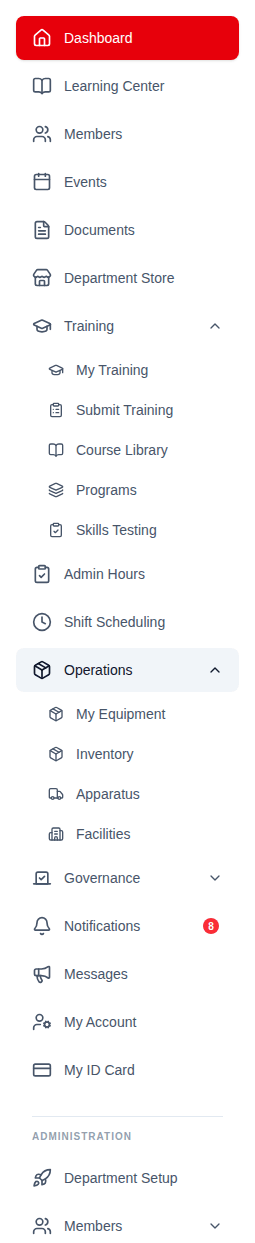
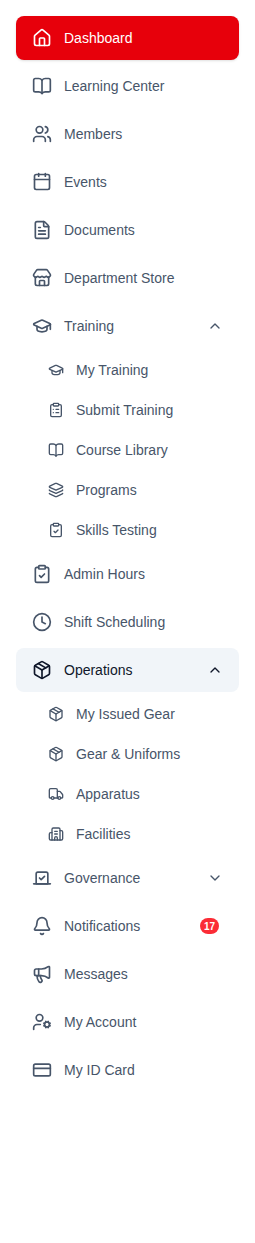
Count the placeholders the tooling could not see; fix the member sidebar shot
status_report.py and apply_placeholders.py shared a regex requiring
[SCREENSHOT NEEDED] with the bracket closing immediately after the word,
so the 41 placeholders written as [SCREENSHOT NEEDED - description] were
invisible to both: the tracker reported 0 remaining while forty-one
specified requests, several carrying seed instructions, had never been
counted. The bracket is now optional and unterminated; the count reads
432 captured, 40 remaining. Verified before changing it that all 436
shots carry an anchor and that a dry run replaces the identical set, so
the wider pattern cannot mis-fill.

00-15-sidebar-member had no auth key and so defaulted to admin - an
image captioned "the member-facing sections" showing ADMINISTRATION and
Department Setup. Re-shot as a member, which also exposed stale labels
in guide 00's tables (My Issued Gear / Gear & Uniforms, Gear Admin) and
Department Store listed as an Operations child. 00-16 re-shot too: it
still pictured the raw-UTC timeline fixed earlier this session.

Fills guide 01's third placeholder (01-39) with the elevated half of the
scanner-permission contrast, cross-referencing the member sidebar for
the other half, since two roles cannot be one picture and the harness
has no members.view-only identity.

Claude-Session: https://claude.ai/code/session_01Hx7mb6NpzahqrTMwHfHfjR

diff --git a/scripts/screenshots/status_report.py b/scripts/screenshots/status_report.py
@@ -19,8 +19,17 @@ from pathlib import Path
 DOCS_DIR = Path(__file__).resolve().parent.parent.parent / "docs" / "training"
 OUTPUT = DOCS_DIR / "SCREENSHOT_STATUS.md"
 
+# The bracket is optional and unterminated on purpose. Guides carry two
+# placeholder syntaxes: `> **[SCREENSHOT NEEDED]:** _description_`, and
+# `> **[SCREENSHOT NEEDED — description]**` with the description *inside* the
+# brackets. Requiring `\[SCREENSHOT NEEDED\]` matched only the first, so 41
+# placeholders across twelve guides were invisible to this script and to
+# status_report.py — which reported "0 remaining" while forty-one fully
+# specified requests, several carrying their own seed instructions, had never
+# been counted, let alone filled. Both scripts hold a copy of this pattern;
+# keep them in step.
 MARKER = re.compile(
-    r"^>\s*\*\*(?:Screenshot placeholder|Screenshot needed|\[SCREENSHOT NEEDED\])",
+    r"^>\s*\*\*\[?(?:Screenshot placeholder|Screenshot needed)",
     re.IGNORECASE,
 )
 IMAGE = re.compile(r"^!\[.*\]\(\./images/.*\.png\)$")

diff --git a/scripts/screenshots/apply_placeholders.py b/scripts/screenshots/apply_placeholders.py
@@ -36,8 +36,17 @@ REPO_ROOT = HERE.parent.parent
 DOCS_DIR = REPO_ROOT / "docs" / "training"
 REPORT = HERE / "capture-report.json"
 
+# The bracket is optional and unterminated on purpose. Guides carry two
+# placeholder syntaxes: `> **[SCREENSHOT NEEDED]:** _description_`, and
+# `> **[SCREENSHOT NEEDED — description]**` with the description *inside* the
+# brackets. Requiring `\[SCREENSHOT NEEDED\]` matched only the first, so 41
+# placeholders across twelve guides were invisible to this script and to
+# status_report.py — which reported "0 remaining" while forty-one fully
+# specified requests, several carrying their own seed instructions, had never
+# been counted, let alone filled. Both scripts hold a copy of this pattern;
+# keep them in step.
 MARKER = re.compile(
-    r"^>\s*\*\*(?:Screenshot placeholder|Screenshot needed|\[SCREENSHOT NEEDED\])",
+    r"^>\s*\*\*\[?(?:Screenshot placeholder|Screenshot needed)",
     re.IGNORECASE,
 )
 

diff --git a/docs/training/00-getting-started.md b/docs/training/00-getting-started.md
@@ -169,22 +169,22 @@ These links are available to all active members:
 Three of them are **groups** that expand when you click them, rather than links
 of their own — Training, Operations and Governance:
 
-| Menu Item            | Description                                                                                    |
-| -------------------- | ---------------------------------------------------------------------------------------------- |
-| **Dashboard**        | Your home page with quick stats and upcoming items                                             |
-| **Learning Center**  | Short task-based paths through the app — open a task, do it, tick it off                       |
-| **Members**          | Department roster and member profiles                                                          |
-| **Events**           | Upcoming and past department events                                                            |
-| **Documents**        | Shared files, SOPs, and policies                                                               |
-| **Training** ▾       | My Training, Submit Training, Course Library, Programs, Skills Testing                         |
-| **Admin Hours**      | Log administrative work hours (if module enabled)                                              |
-| **Shift Scheduling** | Duty roster, your shifts, and open shifts                                                      |
-| **Operations** ▾     | My Equipment, Inventory, Department Store, Apparatus, Facilities                               |
-| **Governance** ▾     | Elections, Minutes, Action Items                                                               |
-| **Notifications**    | Your inbox, with an unread count on the item itself                                            |
-| **Messages**         | Department messages and announcements                                                          |
-| **My Account**       | Your own settings — account, password, security, emergency contacts, appearance, notifications |
-| **My ID Card**       | Your digital member ID, with its QR code and barcode                                           |
+| Menu Item            | Description                                                                                     |
+| -------------------- | ----------------------------------------------------------------------------------------------- |
+| **Dashboard**        | Your home page with quick stats and upcoming items                                              |
+| **Learning Center**  | Short task-based paths through the app — open a task, do it, tick it off                        |
+| **Members**          | Department roster and member profiles                                                           |
+| **Events**           | Upcoming and past department events                                                             |
+| **Documents**        | Shared files, SOPs, and policies                                                                |
+| **Training** ▾       | My Training, Submit Training, Course Library, Programs, Skills Testing                          |
+| **Admin Hours**      | Log administrative work hours (if module enabled)                                               |
+| **Shift Scheduling** | Duty roster, your shifts, and open shifts                                                       |
+| **Operations** ▾     | My Issued Gear, Gear & Uniforms, Apparatus, Facilities (Department Store is its own item above) |
+| **Governance** ▾     | Elections, Minutes, Action Items                                                                |
+| **Notifications**    | Your inbox, with an unread count on the item itself                                             |
+| **Messages**         | Department messages and announcements                                                           |
+| **My Account**       | Your own settings — account, password, security, emergency contacts, appearance, notifications  |
+| **My ID Card**       | Your digital member ID, with its QR code and barcode                                            |
 
 Which of the grouped items appear depends on the modules your department has
 enabled: a department not running elections has no Elections link under
@@ -202,7 +202,7 @@ If you have administrative permissions (officers, IT Manager, etc.), you will se
 | **Members** ▾               | Prospective, Pipeline Settings, Member Management, Scan Member ID, Waivers, Medical Screening |
 | **Events Admin**            | Create events, view analytics                                                                 |
 | **Training Admin**          | Review submissions, manage requirements, compliance                                           |
-| **Inventory Admin**         | Manage items, view member equipment                                                           |
+| **Gear Admin**              | Manage gear and uniform items, view member issued equipment                                   |
 | **Store Admin**             | Storefront products, order windows, and fulfilment                                            |
 | **Admin Hours**             | Review and approve administrative hours                                                       |
 | **Forms & Comms** ▾         | Email Templates, Messages, Forms, Integrations                                                |

diff --git a/docs/training/SCREENSHOT_CURRENCY.md b/docs/training/SCREENSHOT_CURRENCY.md
@@ -183,6 +183,88 @@ earlier** and remain stale.
 
 ---
 
+## "0 remaining" was measuring the wrong thing — 41 placeholders the tooling could not see
+
+Guide 01's two named placeholders are filled and verified (see the entries
+below). Re-checking them turned up something larger: **`status_report.py` and
+`apply_placeholders.py` shared a regex that matched none of the guides' actual
+placeholders.**
+
+Both required `\[SCREENSHOT NEEDED\]` — the bracket closing immediately after
+the word. Guides carry two syntaxes:
+
+```
+> **[SCREENSHOT NEEDED]:** _description outside the brackets_
+> **[SCREENSHOT NEEDED — description inside the brackets]**
+```
+
+Only the first matched. The second form accounts for **41 placeholders across
+twelve guides** — twenty of them in `19-august-2026-release-changes.md`, four
+each in guides 04 and 06, three in guide 09 — and several carry their own seed
+instructions ("seed orders in at least three states", "seed one
+organization-owned template and no vote data"). They were never counted, never
+attempted, and reported as though they did not exist. The tracker has been
+saying "0 remaining" while forty-one specified requests sat unread; the same
+list appears in this file's own SCREENSHOT NEEDED sections, so the work was
+known and the tooling simply never saw it.
+
+The bracket is now optional and unterminated in both scripts, which report
+**432 captured, 40 remaining**. Two properties were checked before changing it:
+every one of the 436 manifest shots carries an `anchor` (so no shot can drift
+onto a bracketed placeholder on a stale line number alone), and a dry run
+before and after replaces the identical set — the wider pattern lets the
+counter see these placeholders without letting the applier fill any of them by
+accident.
+
+### 00-15-sidebar-member was the administrator's sidebar
+
+The shot had no `auth` key, so it defaulted to admin: an image captioned "the
+member-facing sections" showed the ADMINISTRATION heading and Department
+Setup. 00-16's comment beside it recorded the symptom without naming the
+cause — it said an element clip of the nav "would be the same picture as the
+member-section shot above", which was true because both were the same user.
+
+Re-shot as a member, and the real member sidebar differs in more than the
+missing admin half: **Operations reads My Issued Gear / Gear & Uniforms**,
+where the stale admin capture showed My Equipment / Inventory. Those are
+renames, not permissions — no gate distinguishes them — so guide 00's member
+table was documenting labels the product no longer uses, and listing
+Department Store as an Operations child when it is its own top-level item.
+Corrected, along with **Gear Admin** (was Inventory Admin) in the
+Administration table, which the re-shot 00-16 exposed.
+
+00-16 also still pictured the raw-UTC dashboard timeline
+(`2026-08-16T23:00:00+00:00`) fixed earlier in this session, so it was re-shot
+too — an image displaying a bug the shipped code no longer has.
+
+### 01-39-scan-member-id-nav — the third guide-01 placeholder, filled
+
+The one in the invisible syntax asked for "side-by-side navigation for a
+`members.view`-only role and a `users.view` role". Checked against
+`SideNavigation.tsx` first: the rule is real —
+`anyPermission: ['users.view', 'members.manage']` — but the link is called
+**Scan Member ID**, not "Scanner", and it lives under Members in the
+Administration section.
+
+Two roles cannot be one picture, and the harness authenticates as the
+administrator, the demo member, or nobody — a `members.view`-only role is none
+of those. Split the way `09-18` and `01-membership.md:1156` were: the elevated
+half is captured, and the member half is cross-referenced to 00-15, whose
+sidebar has no Administration section at all — which is _why_ the scanner
+cannot appear there. Seeding a fourth identity would picture the permission
+pair exactly and is left recorded rather than half-done.
+
+Three harness lessons paid for by this one shot, all now written beside it:
+
+- **`innerText` lies about case.** The heading is uppercased by CSS, so the
+  DOM text is "Administration" and an exact `"ADMINISTRATION"` match — which
+  is what a debug dump shows you — never fires.
+- **The Administration sub-items are not anchors.** A `getByRole("link")`
+  locator finds nothing with the group open and the words plainly on screen.
+- **The admin half of the nav is built after permissions resolve**, so for a
+  moment the only button named "Members" is the member-facing roster item, and
+  clicking that one expands nothing. The shot waits for the section first.
+
 ## The 2026-08-17 pass — guides 04, 09, 06 and 08, 103 changed images verified
 
 All four guides were re-captured against the rebuilt database and the merged

diff --git a/docs/training/SCREENSHOT_STATUS.md b/docs/training/SCREENSHOT_STATUS.md
@@ -9,28 +9,30 @@ image still matches the application is tracked by hand in
 [SCREENSHOT_CURRENCY.md](./SCREENSHOT_CURRENCY.md) — this file is
 regenerated wholesale, so that audit cannot live here.
 
-**431 of 431 placeholders filled** (0 remaining).
+**432 of 472 placeholders filled** (40 remaining).
 
 | Guide | Captured | Remaining |
 |-------|---------:|----------:|
-| [00-getting-started.md](./00-getting-started.md) | 14 | 0 |
-| [01-membership.md](./01-membership.md) | 26 | 0 |
+| [00-getting-started.md](./00-getting-started.md) | 14 | 1 |
+| [01-membership.md](./01-membership.md) | 27 | 0 |
 | [02-training.md](./02-training.md) | 70 | 0 |
 | [03-scheduling.md](./03-scheduling.md) | 66 | 0 |
-| [04-events-meetings.md](./04-events-meetings.md) | 31 | 0 |
-| [05-inventory.md](./05-inventory.md) | 57 | 0 |
-| [06-apparatus-facilities.md](./06-apparatus-facilities.md) | 16 | 0 |
+| [04-events-meetings.md](./04-events-meetings.md) | 31 | 4 |
+| [05-inventory.md](./05-inventory.md) | 57 | 2 |
+| [06-apparatus-facilities.md](./06-apparatus-facilities.md) | 16 | 4 |
 | [07-documents-forms.md](./07-documents-forms.md) | 13 | 0 |
-| [08-admin-reports.md](./08-admin-reports.md) | 38 | 0 |
-| [09-skills-testing.md](./09-skills-testing.md) | 22 | 0 |
-| [10-mobile-pwa.md](./10-mobile-pwa.md) | 10 | 0 |
+| [08-admin-reports.md](./08-admin-reports.md) | 38 | 1 |
+| [09-skills-testing.md](./09-skills-testing.md) | 22 | 3 |
+| [10-mobile-pwa.md](./10-mobile-pwa.md) | 10 | 1 |
 | [11-finance.md](./11-finance.md) | 11 | 0 |
 | [12-grants-fundraising.md](./12-grants-fundraising.md) | 10 | 0 |
 | [13-medical-screening.md](./13-medical-screening.md) | 6 | 0 |
-| [14-elections.md](./14-elections.md) | 15 | 0 |
+| [14-elections.md](./14-elections.md) | 15 | 1 |
 | [15-prospective-members.md](./15-prospective-members.md) | 15 | 0 |
 | [16-integrations.md](./16-integrations.md) | 5 | 0 |
-| [17-privacy-data-rights.md](./17-privacy-data-rights.md) | 2 | 0 |
+| [17-privacy-data-rights.md](./17-privacy-data-rights.md) | 2 | 2 |
 | [18-storefront.md](./18-storefront.md) | 4 | 0 |
-| **Total** | **431** | **0** |
+| [19-august-2026-release-changes.md](./19-august-2026-release-changes.md) | 0 | 20 |
+| [TRAINING_MATERIALS_REVIEW.md](./TRAINING_MATERIALS_REVIEW.md) | 0 | 1 |
+| **Total** | **432** | **40** |
 

diff --git a/docs/training/01-membership.md b/docs/training/01-membership.md
@@ -1393,12 +1393,23 @@ Key integration points:
 That permission does **not** authorize the ID-card scanner. Scanning requires
 `users.view` or `members.manage`, because a scan is an elevated lookup rather
 than ordinary roster browsing. Side and top navigation use the same OR rule as
-the protected routes, so a visible Scanner link should never lead to an access
+the protected routes, so a visible scanner link should never lead to an access
 denial for an otherwise authorized user.
+
+**The link is called Scan Member ID**, and it sits under **Members** in the
+Administration section — not in the member-facing roster item, which is the
+directory itself and is called simply **Members**.
 
 **Edge cases:** members can still open their own record; a redacted colleague
 profile does not expose elevated administrative fields; possessing either
 scanner permission is sufficient; removing the last qualifying permission
 removes the navigation entry and blocks direct-route access.
 
-> **[SCREENSHOT NEEDED — side-by-side navigation for a `members.view`-only role and a `users.view` role, showing Directory for both and Scanner only for the elevated role.]**
+![The Administration section's Members group expanded, Scan Member ID among its links](./images/01-39-scan-member-id-nav.png)
+
+The contrast this rule produces takes two sign-ins and so cannot be one
+picture. Above is the elevated side — the group holding **Scan Member ID**.
+For the other side, the member sidebar in the
+[Getting Started guide](./00-getting-started.md) shows what a holder of
+ordinary roster permissions sees: **Members** is present, and there is no
+Administration section for the scanner to appear in.
